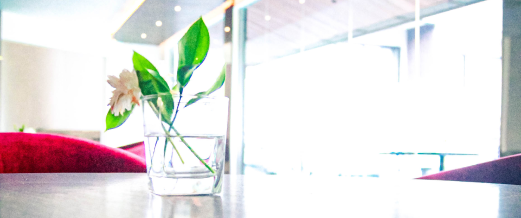
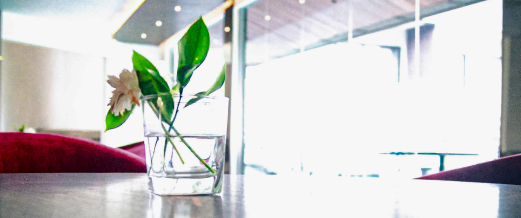
perbaikan temuan

diff --git a/en/about-us/structure-organization.php b/en/about-us/structure-organization.php
@@ -43,7 +43,7 @@
             <div class="officer grid mt-[50px]">
               <div class="w-[235px] min-[368px]:w-[326px] flex justify-center">
                 <img src="https://bumikadaka.com/resources/img/about-us/Komisaris.jpg"
-                  class="w-full h-auto">
+                  class="w-full h-auto" style="height: 370px; object-fit: cover;">
               </div>
 
               <div class="w-full">
@@ -77,7 +77,7 @@
             <div class="officer grid mt-[50px]">
               <div class="w-[235px] min-[368px]:w-[326px] flex justify-center">
                 <img src="https://bumikadaka.com/resources/img/about-us/ceo.png"
-                  class="w-full h-auto">
+                  class="w-full h-auto" style="height: 370px; object-fit: cover;">
               </div>
 
               <div class="w-full">
@@ -119,7 +119,7 @@
             <div class="officer grid mt-[50px]">
               <div class="w-[235px] min-[368px]:w-[326px] flex justify-center">
                 <img src="https://bumikadaka.com/resources/img/about-us/coo.png"
-                  class="w-full h-auto">
+                  class="w-full h-auto" style="height: 370px; object-fit: cover;">
               </div>
 
               <div class="w-full">
@@ -168,7 +168,7 @@
             <div class="officer grid mt-[50px]">
               <div class="w-[235px] min-[368px]:w-[326px] flex justify-center">
                 <img src="https://bumikadaka.com/resources/img/about-us/cfo.png"
-                  class="w-full h-auto">
+                  class="w-full h-auto" style="height: 370px; object-fit: cover;">
               </div>
 
               <div class="w-full">
